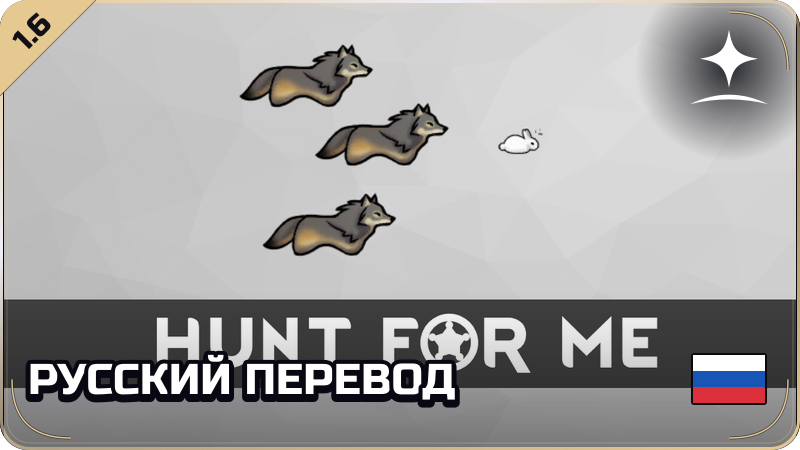
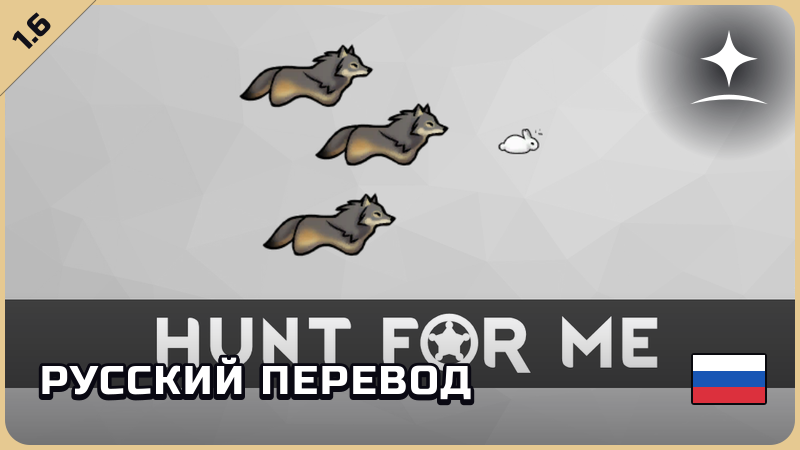
Единое оформление без угловых элементов

Changed region(s): [[0.0, 0.0, 1.0, 1.0], [0.0, 0.0, 0.0312, 0.0311]]

diff --git a/mods/RU-3033901359/README.md b/mods/RU-3033901359/README.md
@@ -6,11 +6,15 @@
 
 Adaptive Storage Framework — основа для модов хранения: она позволяет настраивать вместимость хранилищ и менять их внешний вид в зависимости от содержимого. Игроку доступны вкладки содержимого и групп хранилищ, а также настройки подписей над предметами.
 
+![Что переведено](https://raw.githubusercontent.com/chupakobra6/star-sky-assets/main/assets/section-features-ru-centered.png)
+
 ## Что переведено
 
 - Настройки вкладки содержимого и подписей над хранилищами.
 - Описания вместимости, количества стопок и команды выгрузки.
 - Варианты подписей, категория хранения и подсказки интерфейса.
+
+![Как пользоваться](https://raw.githubusercontent.com/chupakobra6/star-sky-assets/main/assets/section-how-to-use-ru-centered.png)
 
 ## Установка
 
@@ -18,9 +22,13 @@ Adaptive Storage Framework — основа для модов хранения: 
 2. Включите моды в порядке: Harmony → оригинал → этот перевод.
 3. Выберите русский язык в настройках RimWorld.
 
+![Совместимость](https://raw.githubusercontent.com/chupakobra6/star-sky-assets/main/assets/section-compatibility-ru-centered.png)
+
 Оставьте включённым один отдельный русский перевод этого мода, чтобы тексты не перекрывали друг друга.
 
 Выберите хранилище, чтобы открыть его содержимое. Вид подписей, их показ при отдалении камеры и наведении курсора настраиваются в Adaptive Storage Framework.
+
+![Обратная связь](https://raw.githubusercontent.com/chupakobra6/star-sky-assets/main/assets/section-feedback-ru-centered.png)
 
 ## Обратная связь
 
@@ -37,3 +45,6 @@ Adaptive Storage Framework — основа для модов хранения: 
 Материалы RimWorld принадлежат Ludeon Studios; перевод не является официальной работой студии и не одобрен ею. Обязательное уведомление:
 
 Portions of the materials used to create this content/mod are trademarks and/or copyrighted works of Ludeon Studios Inc. All rights reserved by Ludeon. This content/mod is not official and is not endorsed by Ludeon.
+
+[![Поддержать на Boosty](https://raw.githubusercontent.com/chupakobra6/star-sky-assets/main/assets/button-support-ru-centered.png)](https://boosty.to/chupakobra6?utm_source=github&utm_medium=repository&utm_campaign=star_sky_mods&utm_content=readme&utm_term=support)
+[![Другие моды](https://raw.githubusercontent.com/chupakobra6/star-sky-assets/main/assets/button-workshop-ru-centered.png)](https://steamcommunity.com/id/chupakobra6/myworkshopfiles/?appid=294100)
